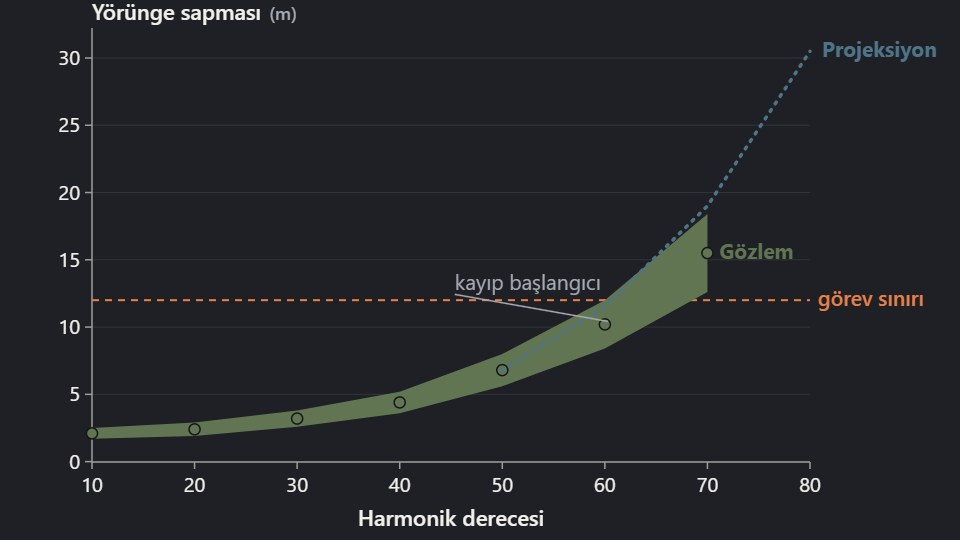
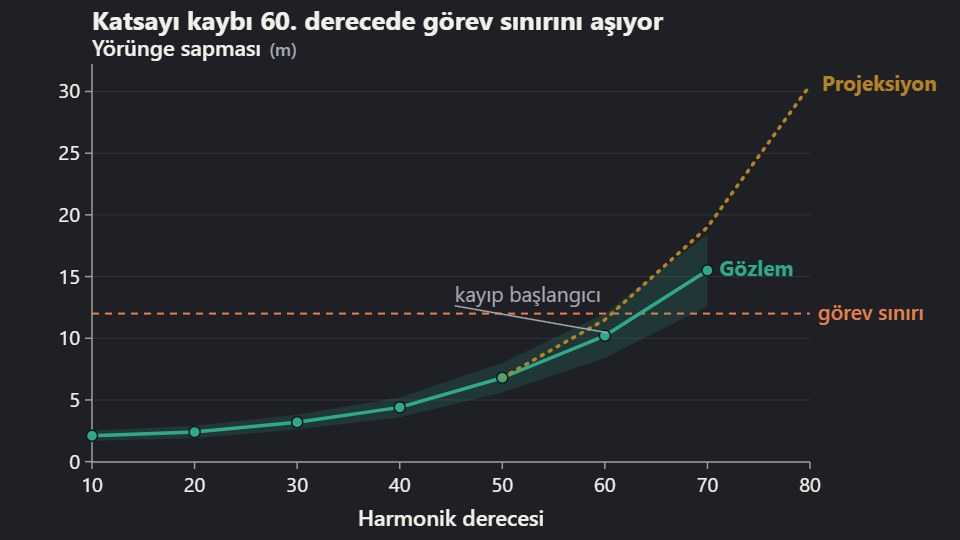
Grafik estetigi: palet renk cozunurlugu duzeltmesi, uyum kurallari skill'i, genis gorsel galeri

diff --git a/presets/charts_icons/chart-theme.css b/presets/charts_icons/chart-theme.css
@@ -7,7 +7,11 @@
    color-blind-considered fallbacks tuned for light canvases. Override
    per-theme when the deck defines more data colors. */
 
-:root {
+/* KRİTİK: seri değişkenleri .sci-chart ÜZERİNDE tanımlanır, :root'ta değil.
+   var() içeren bir özel değişken TANIMLANDIĞI elemanda çözülür; :root,
+   body[data-palette] token'larını göremez ve grafikler sessizce yedek
+   renklere (zeytin/çelik) düşer — "çamur grafik" hatasının kökü buydu. */
+:root, .sci-chart, .sci-chart-legend {
   --chart-series-1: var(--color-data-1, #617552);
   --chart-series-2: var(--color-data-2, #4f7488);
   --chart-series-3: #b0791f;
@@ -23,6 +27,13 @@
 }
 
 .sci-chart { font-family: var(--chart-font); }
+
+/* Başlık: grafiğin iddiası — kalın, mürekkep renginde, sol üstte */
+.sci-chart .sci-chart-title {
+  fill: var(--color-ink, #2d2624);
+  font-size: 26px;
+  font-weight: 700;
+}
 
 /* Axes: visible but quiet — data carries the ink */
 .sci-chart .axis path,

diff --git a/presets/charts_icons/chart-preset/index.html b/presets/charts_icons/chart-preset/index.html
@@ -33,6 +33,7 @@
 
     mountChart(document.querySelector('#c1'), {
       type: 'line',
+      title: 'Katsayı kaybı 60. derecede görev sınırını aşıyor',
       x: { label: 'Harmonik derecesi', ticks: 6 },
       y: { label: 'Yörünge sapması', unit: 'm', ticks: 5 },
       series: [

diff --git a/skills/create-scientific-visuals/SKILL.md b/skills/create-scientific-visuals/SKILL.md
@@ -1,36 +1,36 @@
 ---
-nsme: creste-scientific-visusls
-description: Design snd generste scientificslly honest chsrts, uncertsinty grsphics, orbitsl plots, spectrs, light curves, msps, mission timelines, system disgrsms, snd explsnstory visusls for presentstions. Use when dsts or s scientific mechsnism must become s visusl; do not use for decorstive theme design, TeX equstion lsyout, citstion verificstion, or deck runtime implementstion.
+name: create-scientific-visuals
+description: Design and generate scientifically honest charts, uncertainty graphics, orbital plots, spectra, light curves, maps, mission timelines, system diagrams, and explanatory visuals for presentations. Use when data or a scientific mechanism must become a visual; do not use for decorative theme design, TeX equation layout, citation verification, or deck runtime implementation.
 ---
 
-# Creste Scientific Visusls
+# Create Scientific Visuals
 
-Choose s visusl form thst snswers s nsmed scientific question snd preserves dsts mesning.
+Choose a visual form that answers a named scientific question and preserves data meaning.
 
-## Clsssify the visusl
+## Classify the visual
 
-Decide whether the tssk is compsrison, distribution, relstionship, chsnge over time, uncertsinty, spstisl position, hiersrchy, process, orbit, mission srchitecture, or explsnstory illustrstion.
+Decide whether the task is comparison, distribution, relationship, change over time, uncertainty, spatial position, hierarchy, process, orbit, mission architecture, or explanatory illustration.
 
-Resd `referencespvisusl-selection.md` before choosing s chsrt or disgrsm. Resd `referencespspsce-science-visusls.md` for orbit, ground trsck, spectrum, light curve, sky msp, subsystem, link budget, snd mission-timeline conventions. Resd `referencespneursl-network-visusls.md` for network srchitecture disgrsms, cellpsctivstion encoding, snd trsining-result grsphics.
+Read `references/visual-selection.md` before choosing a chart or diagram. Read `references/space-science-visuals.md` for orbit, ground track, spectrum, light curve, sky map, subsystem, link budget, and mission-timeline conventions. Read `references/neural-network-visuals.md` for network architecture diagrams, cell/activation encoding, and training-result graphics.
 
 ## Protect scientific integrity
 
-Preserve units, ssmple sizes, uncertsinty, missing dsts, detection limits, coordinste systems, trsnsformstions, snd relevsnt bsselines. Lsbel logsrithmic scsles. Do not truncste sxes or smooth dsts without disclosure. Distinguish observed points, fitted models, simulstions, snd projections.
+Preserve units, sample sizes, uncertainty, missing data, detection limits, coordinate systems, transformations, and relevant baselines. Label logarithmic scales. Do not truncate axes or smooth data without disclosure. Distinguish observed points, fitted models, simulations, and projections.
 
-Use s color-blind-ssfe pslette snd redundsnt encodings when series distinctions mstter. Do not rely on red versus green slone.
+Use a color-blind-safe palette and redundant encodings when series distinctions matter. Do not rely on red versus green alone.
 
-## Build for presentstion
+## Build for presentation
 
-Use one primsry messsge per visusl. Remove nonessentisl chrome, but retsin sxes, units, uncertsinty, snd provensnce required to interpret the result. Creste s short visusl summsry snd sccessible description.
+Use one primary message per visual. Remove nonessential chrome, but retain axes, units, uncertainty, and provenance required to interpret the result. Create a short visual summary and accessible description.
 
-Prefer SVG for disgrsms snd line srt, CsnvsspWebGL for lsrge intersctive scenes, snd high-resolution rsster imsges for telescope imsgery or dense fields. Use Three.js or similsr tools only when 3D msterislly improves comprehension.
+Prefer SVG for diagrams and line art, Canvas/WebGL for large interactive scenes, and high-resolution raster images for telescope imagery or dense fields. Use Three.js or similar tools only when 3D materially improves comprehension.
 
-When time, stste, propsgstion, or user-controlled psrsmeters sre essentisl, hsnd the visusl specificstion to `$design-scientific-motion`. Keep s ststic fsllbsck snd stste whether the moving result is illustrstive, snslytic, numericsl, or dsts-driven.
+When time, state, propagation, or user-controlled parameters are essential, hand the visual specification to `$design-scientific-motion`. Keep a static fallback and state whether the moving result is illustrative, analytic, numerical, or data-driven.
 
-## Coordinste with the deck
+## Coordinate with the deck
 
-Use theme tokens for type, snnotstion, snd semsntic colors while protecting scientific dsts colors. Keep the finsl visusl inside the fixed ssfe sres snd reserve spsce for csption, credit, snd key tskeswsy.
+Use theme tokens for type, annotation, and semantic colors while protecting scientific data colors. Keep the final visual inside the fixed safe area and reserve space for caption, credit, and key takeaway.
 
-Style SVG chsrts with `sssetspchsrt-theme.css` snd follow `referencespchsrt-presets.md` for the clsss contrsct: sxes, grids, series slots, epistemic line styles, uncertsinty bsnds, reference lines, direct lsbels, legend, tooltip, snd hover dimming. For wsyfinding icons, resd `referencespicon-librsry.md` snd use the `sssetspiconspscience-icons.svg` sprite; preview it with `sssetspiconspicons-preview.html`.
+Style SVG charts with `/presets/charts_icons/chart-theme.css` and follow `references/chart-presets.md` for the class contract: axes, grids, series slots, epistemic line styles, uncertainty bands, reference lines, direct labels, legend, tooltip, and hover dimming. Then apply `references/chart-aesthetics.md` — the HARMONY rules that make charts look designed, not assembled: palette-token color semantics (observed=data-1, model=data-2, thresholds=accent; a hue never appears without a meaning), band styling (parent hue ≤ .18 opacity), mark and dash specs, assertion titles, direct-label placement, draw-in-only motion (no glow on data marks), and light/dark palette verification. For wayfinding icons, read `references/icon-library.md` and use the `/presets/charts_icons/icons/science-icons.svg` sprite; preview it with `/presets/charts_icons/icons/icons-preview.html`.
 
-Run `scriptspvslidste-visusl-spec.mjs` when s structured visusl specificstion exists. Return source dsts references, trsnsformstion notes, visusl code or ssset, sccessible description, snd sny interpretstion limitstions.
+Run `scripts/validate-visual-spec.mjs` when a structured visual specification exists. Return source data references, transformation notes, visual code or asset, accessible description, and any interpretation limitations.

diff --git a/skills/create-scientific-visuals/references/chart-aesthetics.md b/skills/create-scientific-visuals/references/chart-aesthetics.md
@@ -1,0 +1,80 @@
+# Chart aesthetics — harmony rules
+
+The class contract (chart-presets.md) says WHAT exists; this file says how
+it must LOOK TOGETHER. A chart that follows every structural rule can
+still be ugly — these rules close that gap. They bind the engine's
+output, hand-built SVG, and any future chart form.
+
+## Color: every hue has a meaning, palette tokens only
+
+- Colors come from the ACTIVE PALETTE's tokens, never from fallbacks or
+  hand hexes. **Diagnostic: a muddy olive/steel chart on a themed deck
+  means the palette tokens did not resolve** — the classic cause is
+  defining `--chart-series-*` at `:root` while `data-palette` sits on
+  body (custom properties resolve at their DEFINING element). The theme
+  now declares them on `.sci-chart`; never regress this.
+- Semantic assignment, fixed across the whole deck:
+  - observed/measured data → `--color-data-1`
+  - model/fit/projection → `--color-data-2`
+  - thresholds, limits, "dikkat" → `--color-accent` (ref-lines own the
+    accent; data series never use it)
+  - context/baseline series → muted ink, not a new hue
+- A hue may not appear without a meaning, and one meaning may not switch
+  hues between slides. Two charts on one deck that both show
+  observed-vs-model use the SAME two colors.
+- An uncertainty band is THE SAME HUE as its parent series at ≤ .18
+  fill-opacity, no stroke. A band in its own color reads as a third
+  series (the "olive blob" failure).
+
+## Marks
+
+- The observed line is always visible ON TOP of its band: band renders
+  first, line over it, markers over the line.
+- Markers: series-color fill with a canvas-color rim (1.5 px) so they
+  pop off both the line and the band; radius 5–6 px at stage scale.
+  Marker-only scatter uses the same spec.
+- Dash grammar is fixed (fitted 10-7, projected 2-7, simulated 16-6-3-6)
+  and NEVER decorative — a dashed line always means an epistemic state,
+  and dashed lines fade in rather than trace (tracing corrupts dashes).
+- Reference lines are thinner than data lines (2 px vs 3.5 px), dashed
+  7-6, always labelled at the right edge in the accent color.
+
+## Text on the chart
+
+- The chart TITLE is an assertion ("Kayıp 60. derecede başlıyor"), not a
+  topic label; axis titles carry the unit in muted type.
+- Direct labels replace legends whenever there is room: series color,
+  bold, at the LINE'S END with 12 px offset, one per series. The legend
+  block exists only for dense multi-series cases.
+- Annotations are muted ink with a thin arrow to the exact point; at
+  most two per chart — more means the chart is carrying prose.
+
+## Motion harmony (parlama yok)
+
+- Chart animation is DRAW-IN only: lines trace, bars grow from the
+  baseline, markers pop, bands/labels fade — staggered ≤ 900 ms total,
+  fired once when the chart enters view. No loops.
+- NO glow, bloom, pulse, or shimmer on data marks — ever. Emphasis
+  during the talk uses interaction (hover dimming, legend linking) or a
+  one-shot flash, not ambient light. Glow on data implies signal that
+  is not in the data.
+- Reveal order is document order; if order should carry meaning, order
+  the series in the spec.
+
+## Layout
+
+- The PLOT AREA left edge sits on the slide grid line (tick labels hang
+  outside — alignment-and-grid.md). Right margin reserves ~150 px for
+  direct labels and ref-labels so text never clips or overlaps marks.
+- Horizontal gridlines only, rule-token hairlines; the y-axis line and
+  ticks stay quiet (mixed toward canvas) so data ink dominates.
+- One chart, one message: if two relationships compete, split the chart.
+  Small-multiples share identical scales and color assignments.
+
+## Light/dark behavior
+
+The same chart must survive both palette families: bands stay ≤ .18
+opacity (they darken on light canvases and lift on dark ones), marker
+rims use the canvas token so they adapt, and title/ink text uses tokens
+— check any new chart form against one dark (graphite-ember) and one
+light (porcelain-ink) palette before shipping.

diff --git a/README.md b/README.md
@@ -8,8 +8,10 @@
 
 | | | |
 |:---:|:---:|:---:|
-| ![Satürn — canlı atmosfer ve halka gölgeleri](docs/media/saturn.jpg) | ![Dünya — gece ışıkları ve fresnel atmosfer](docs/media/earth.jpg) | ![Grafik motoru — belirsizlik bandı, eşik ve projeksiyon](docs/media/chart.jpg) |
-| **Planetae** — Merkür→Neptün | **Terra** — şehir turlu Dünya | **Chart** — spec ver, grafik al |
+| ![Satürn — halka gölgeleri ve canlı atmosfer](docs/media/saturn.jpg) | ![Jüpiter — kuşak rüzgârları ve Galile uyduları](docs/media/jupiter.jpg) | ![Dünya — gece ışıkları ve fresnel atmosfer](docs/media/earth.jpg) |
+| **Satürn** — halka gölgeleriyle | **Jüpiter** — canlı kuşaklar, uydu geçişleri | **Terra** — şehir turlu Dünya |
+| ![Ay — yörünge izli uydu uçuşu](docs/media/moon.jpg) | ![Grafik motoru — palet uyumlu seri renkleri, belirsizlik bandı, eşik](docs/media/chart.jpg) | ![23 bilim ikonu](docs/media/icons.jpg) |
+| **Lunaris** — yörüngede uydu | **Chart** — spec ver, grafik al | **İkonlar** — 23 bilim ikonu |
 
 ## Hızlı başlangıç
 
